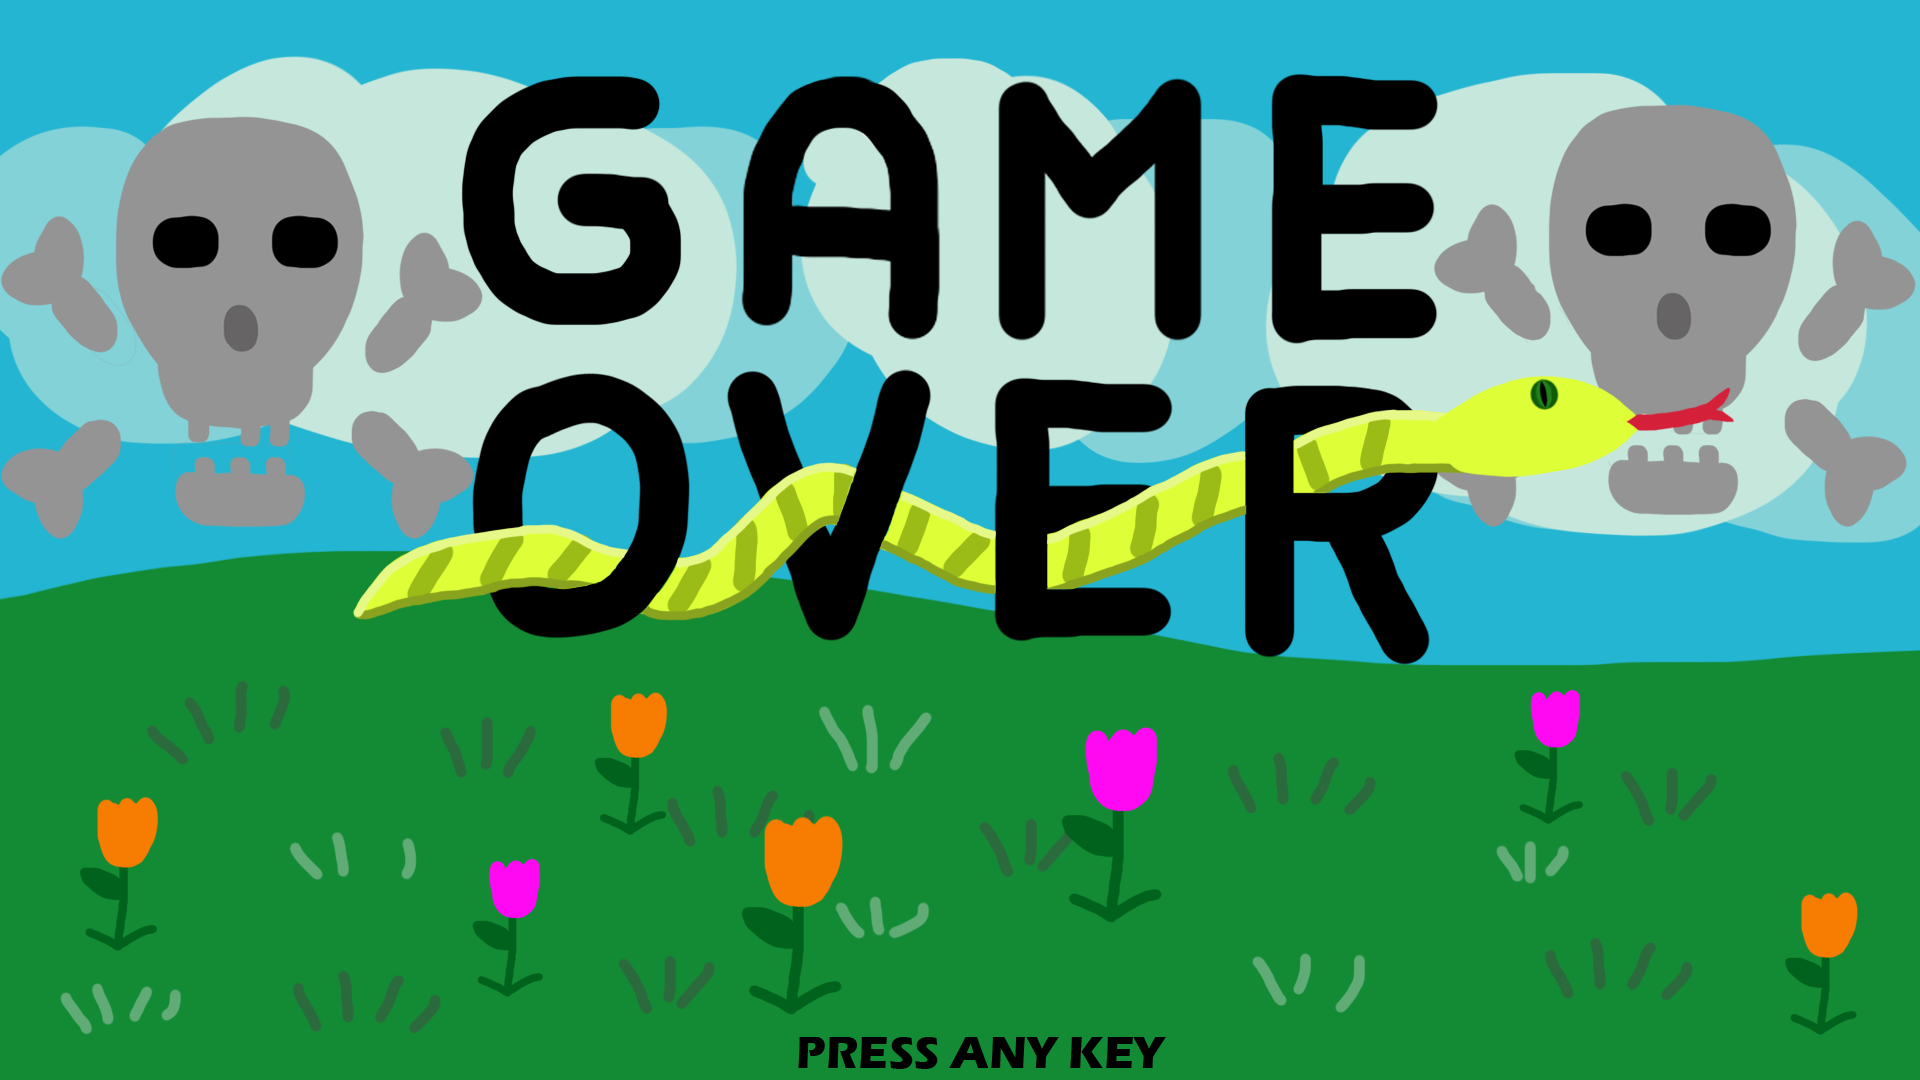
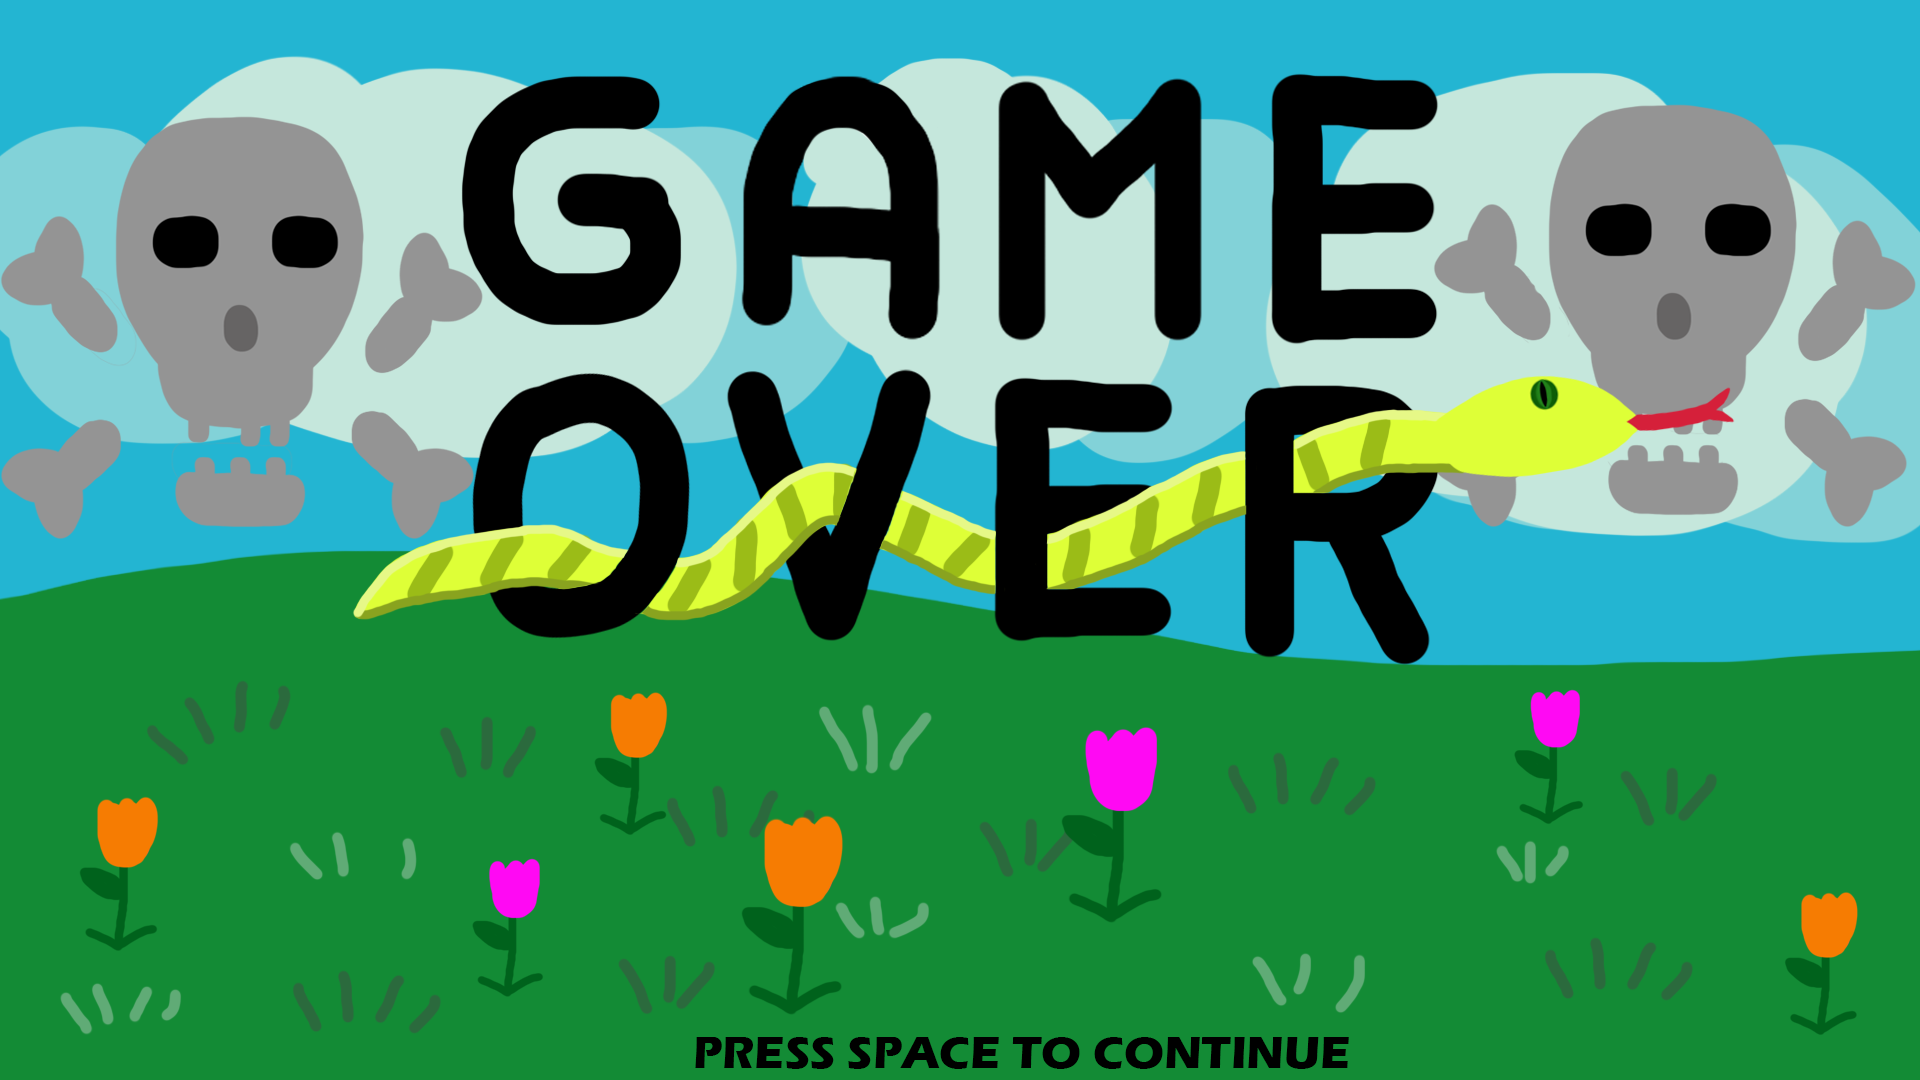
Add death screen and looping game menu

Changed region(s): [[0.3438, 0.9472, 0.7188, 1.0]]

diff --git a/game.py b/game.py
@@ -1,5 +1,8 @@
 #new game module
 
+#modules
+import main
+
 # libraries
 import pygame
 import sys
@@ -39,12 +42,10 @@ def rotate_corner(texture, previous_direction, new_direction):
 
 #Snake printing and self colision detection function
 def snake_body(head, body, body_direction, score=0):
-    global screen, surface_body, surface_tail, direction, active_corners, previous_direction
+    global screen, surface_body, surface_tail, direction, active_corners, previous_direction, death
     #colision detection
     if head in body:
-        print("game over")
-        print("score: ",score)
-        sys.exit(0)
+        death = True
 
     #body length
     if len(body) > score:
@@ -126,6 +127,9 @@ def apple_functions(head,apple):
 #Main function
 def run():
 
+    pygame.init()
+
+
     #Tickrate values
     clock = pygame.time.Clock()
     delta = 0.0
@@ -137,6 +141,8 @@ def run():
     global direction
     global active_corners
     global previous_direction
+    global death
+    death = False
     active_corners = {}
     previous_direction = ""
     y = 0
@@ -147,11 +153,13 @@ def run():
     score = 0
     first_game = True
     change_direction = False
+    running = True
 
     #pygame variables
     screen = pygame.display.set_mode((1920,1080), pygame.FULLSCREEN)
     apple = pygame.Rect(40,40,40,40)
-    font = pygame.font.Font('freesansbold.ttf', 38)
+    font = pygame.font.Font('freesansbold.ttf', 50)
+    death_screen_font = pygame.font.Font('freesansbold.ttf', 175)
     controls = pygame.image.load('assets/controls.png')
     surface_background = pygame.image.load("assets/game_background.png")
     rect_background = surface_background.get_rect()
@@ -172,10 +180,10 @@ def run():
     surface_tail = pygame.image.load("assets/tail.png")
     tail = surface_tail.get_rect()
     surface_corner = pygame.image.load('assets/corner.png')
-
+    death_screen = pygame.image.load("assets/death_screen.png")
 
     #Main loop
-    while True:
+    while running:
 
         #Checking output keys to exit program
         for event in pygame.event.get():
@@ -233,13 +241,13 @@ def run():
 
         #Band colison detection
         if snake.x >= 1920:
-            sys.exit(0)
+            death = True
         if snake.x < 0:
-            sys.exit(0)
+            death = True
         if snake.y < 0:
-            sys.exit(0)
+            death = True
         if snake.y >= 1080:
-            sys.exit(0)
+            death = True
 
         #Background
         screen.blit(surface_background,rect_background)
@@ -249,6 +257,17 @@ def run():
             x = 0
             y = 0
             screen.blit(controls, (0,0))
+        #Showing death screen
+        elif death:
+            x = 0
+            y = 0
+            screen.blit(death_screen, (0,0))
+            #Score printing
+            score_counter = death_screen_font.render("Score: " + str(score - 1), True, (0,0,0))
+            screen.blit(score_counter, (670,820))
+            if keys[pygame.K_SPACE]:
+                running = False
+                pygame.quit()
         else:
 
             #Body drawing and self colision detection
@@ -266,11 +285,14 @@ def run():
             screen.blit(surface_food,apple)
 
             #Score printing
-            score_counter = font.render("Score: " + str(score - 2), True, (255,255,255))
-            screen.blit(score_counter, (100,60))
+            score_counter = font.render("Score: " + str(score - 1), True, (0,0,0))
+            screen.blit(score_counter, (80,80))
 
         #Frame printing
-        pygame.display.flip()
+        try:
+            pygame.display.flip()
+        except:
+            break
 
 # init function
 if __name__ == "__main__":

diff --git a/main.py b/main.py
@@ -48,11 +48,12 @@ class main_window(QWidget):
     def quit_function(self):
         sys.exit(0)
 
-
-
-# init function
-if __name__ == "__main__":
+def run():
     app = QApplication(sys.argv)
     window = main_window()
     window.showFullScreen()
     sys.exit(app.exec())
+
+# init function
+if __name__ == "__main__":
+    run()
